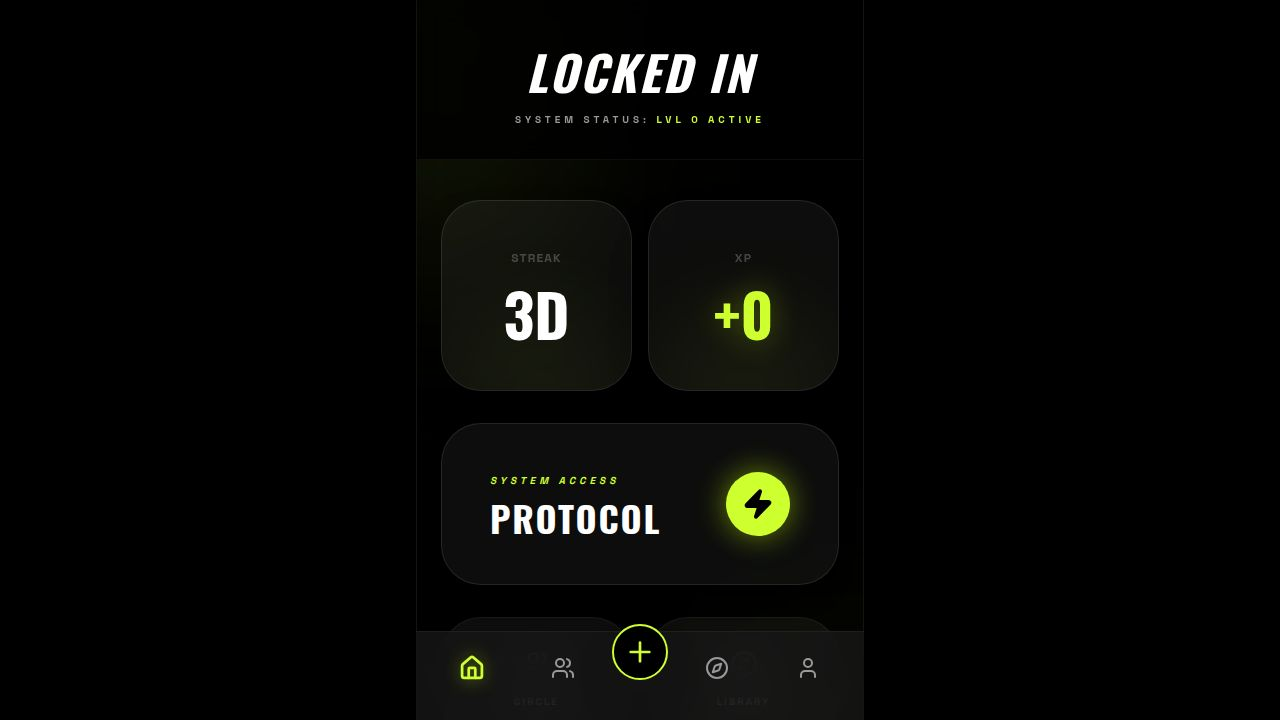
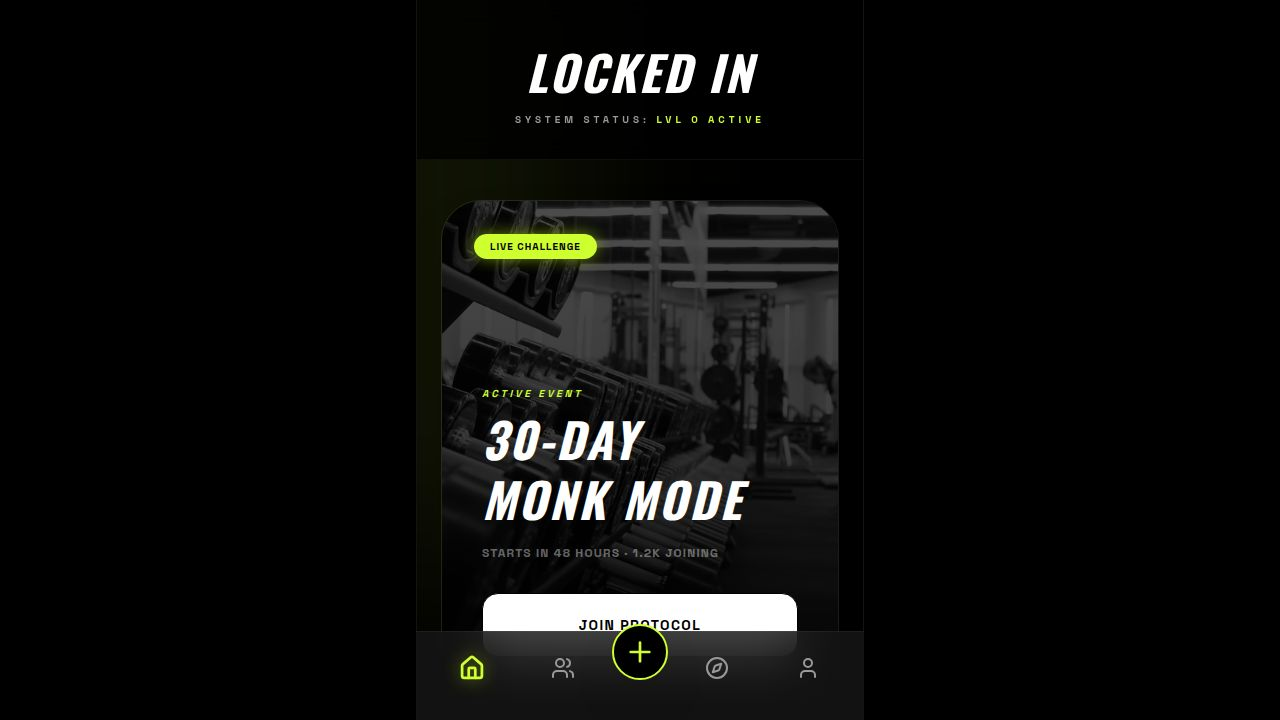
Prioritize the main challenge at the top of the dashboard
Reorder homepage elements to display the 30-Day Monk Mode challenge card above the user stats grid.

Replit-Commit-Author: Agent
Replit-Commit-Session-Id: 96967c1e-cb20-49bc-9b71-f68a051adc4d
Replit-Commit-Checkpoint-Type: full_checkpoint
Replit-Commit-Event-Id: 1fbc5cd6-f747-4750-990d-3a813073a12e
Replit-Commit-Screenshot-Url: https://storage.googleapis.com/screenshot-production-us-central1/682f1814-deda-49a4-8125-02c012bd1410/96967c1e-cb20-49bc-9b71-f68a051adc4d/jpbFCT5
Replit-Helium-Checkpoint-Created: true

Changed region(s): [[0.3438, 0.275, 0.6562, 0.7944], [0.375, 0.825, 0.625, 0.9167]]

diff --git a/client/src/pages/home.tsx b/client/src/pages/home.tsx
@@ -17,7 +17,31 @@ export default function HomePage() {
       </header>
 
       <div className="p-6 space-y-8 mt-4 pb-24">
-        {/* Dice-style Stats Grid */}
+        {/* Hero Challenge Card - MOVED TO TOP */}
+        <div className="relative rounded-[40px] overflow-hidden aspect-[4/5] group cursor-pointer shadow-2xl border border-white/10">
+            <img 
+                src="https://images.unsplash.com/photo-1534438327276-14e5300c3a48?q=80&w=1000&auto=format&fit=crop" 
+                alt="Workout"
+                className="absolute inset-0 w-full h-full object-cover grayscale brightness-[0.3] group-hover:scale-105 transition-transform duration-700"
+            />
+            <div className="absolute inset-0 bg-gradient-to-t from-black via-black/20 to-transparent" />
+            
+            <div className="absolute top-8 left-8">
+                <span className="bg-primary text-black text-[10px] font-black px-4 py-1.5 rounded-full uppercase tracking-widest shadow-[0_0_15px_rgba(204,255,0,0.5)]">LIVE CHALLENGE</span>
+            </div>
+
+            <div className="absolute bottom-10 left-10 right-10">
+                <p className="text-primary text-[10px] font-black uppercase tracking-[0.3em] mb-2 italic">Active Event</p>
+                <h3 className="text-5xl font-display font-black leading-tight mb-4 uppercase italic tracking-tighter">30-DAY<br/>MONK MODE</h3>
+                <p className="text-white/40 text-xs mb-8 font-black uppercase tracking-widest">Starts in 48 hours · 1.2k Joining</p>
+                
+                <Button className="w-full bg-white text-black font-black uppercase tracking-widest rounded-2xl h-16 text-sm hover:bg-primary transition-colors">
+                    Join Protocol
+                </Button>
+            </div>
+        </div>
+
+        {/* Dice-style Stats Grid - MOVED BELOW HERO */}
         <div className="grid grid-cols-2 gap-4">
           <div className="bg-white/5 border border-white/10 rounded-[40px] p-8 flex flex-col items-center justify-center aspect-square shadow-2xl relative overflow-hidden group hover:bg-white/10 transition-all">
             <div className="absolute inset-0 bg-primary/5 blur-[40px] rounded-full translate-y-1/2 group-hover:bg-primary/10" />
@@ -45,30 +69,6 @@ export default function HomePage() {
             <Zap size={32} fill="currentColor" />
           </div>
         </button>
-
-        {/* Hero Challenge Card - Restored & Elevated */}
-        <div className="relative rounded-[40px] overflow-hidden aspect-[4/5] group cursor-pointer shadow-2xl border border-white/10">
-            <img 
-                src="https://images.unsplash.com/photo-1534438327276-14e5300c3a48?q=80&w=1000&auto=format&fit=crop" 
-                alt="Workout"
-                className="absolute inset-0 w-full h-full object-cover grayscale brightness-[0.3] group-hover:scale-105 transition-transform duration-700"
-            />
-            <div className="absolute inset-0 bg-gradient-to-t from-black via-black/20 to-transparent" />
-            
-            <div className="absolute top-8 left-8">
-                <span className="bg-primary text-black text-[10px] font-black px-4 py-1.5 rounded-full uppercase tracking-widest shadow-[0_0_15px_rgba(204,255,0,0.5)]">LIVE CHALLENGE</span>
-            </div>
-
-            <div className="absolute bottom-10 left-10 right-10">
-                <p className="text-primary text-[10px] font-black uppercase tracking-[0.3em] mb-2 italic">Active Event</p>
-                <h3 className="text-5xl font-display font-black leading-tight mb-4 uppercase italic tracking-tighter">30-DAY<br/>MONK MODE</h3>
-                <p className="text-white/40 text-xs mb-8 font-black uppercase tracking-widest">Starts in 48 hours · 1.2k Joining</p>
-                
-                <Button className="w-full bg-white text-black font-black uppercase tracking-widest rounded-2xl h-16 text-sm hover:bg-primary transition-colors">
-                    Join Protocol
-                </Button>
-            </div>
-        </div>
 
         {/* Motivation Quote Card - Restored & Elevated */}
         <div className="bg-white/5 border border-white/10 rounded-[40px] p-12 relative overflow-hidden group shadow-xl">
